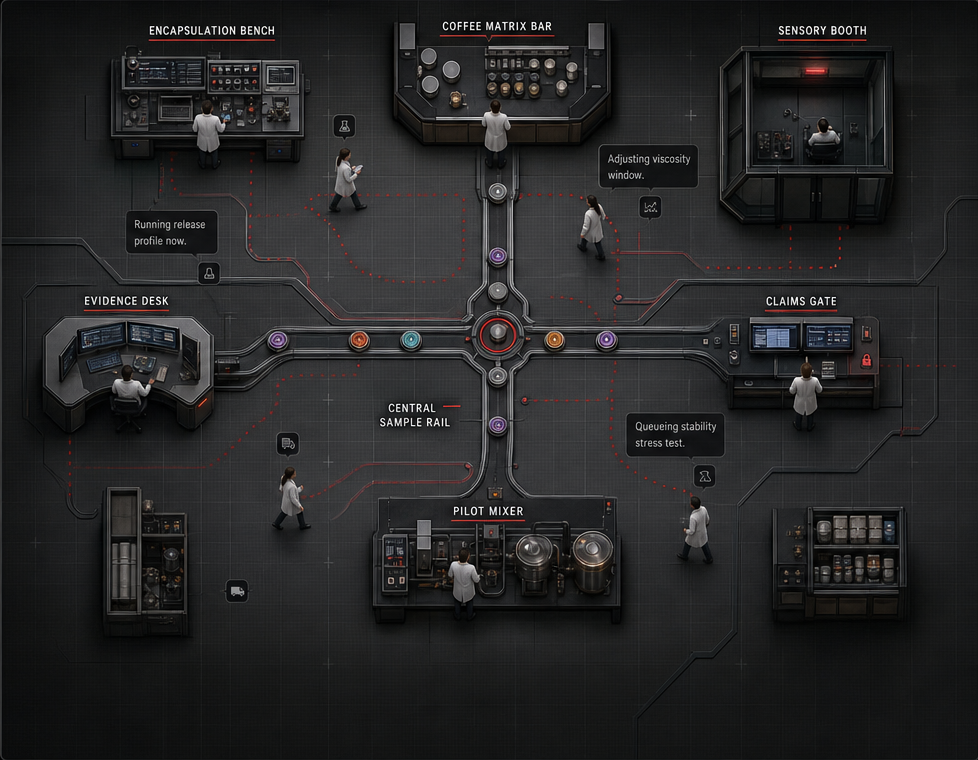
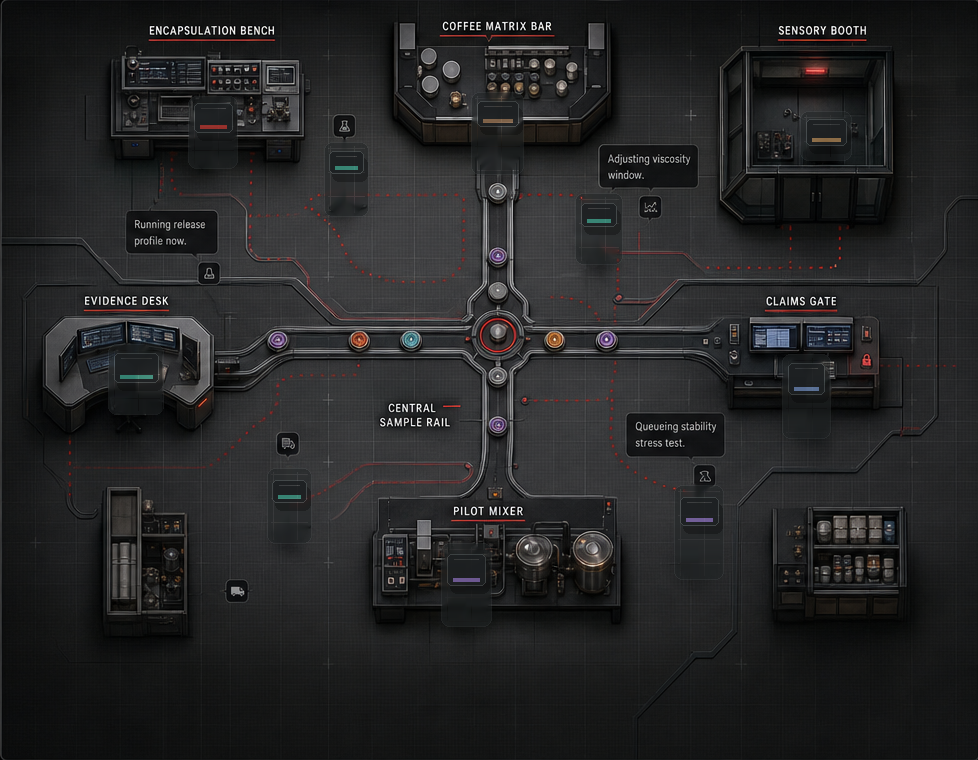
Improve research lab world motion

diff --git a/css/research-lab.css b/css/research-lab.css
@@ -1177,7 +1177,7 @@ body.research-world-page {
         margin-top: 0;
     }
     50% {
-        margin-top: -4px;
+        margin-top: calc(var(--walk-bob, 4px) * -1);
     }
 }
 
@@ -2089,27 +2089,54 @@ body.research-world-page {
 
 .research-world-page .game-stage .world-agent {
     animation:
-        agent-walk-bob 1.1s ease-in-out infinite,
-        scientist-step 620ms steps(2) infinite;
+        agent-walk-bob var(--walk-duration, 1.1s) ease-in-out infinite,
+        scientist-step var(--step-duration, 620ms) steps(2) infinite;
+    animation-delay:
+        var(--walk-delay, 0ms),
+        var(--step-delay, 0ms);
 }
 
 .research-world-page .game-stage .world-agent .lab-character-arm.left,
 .research-world-page .game-stage .world-agent .lab-character-leg.right {
-    animation: scientist-limb-a 620ms steps(2) infinite;
+    animation: scientist-limb-a var(--step-duration, 620ms) steps(2) infinite;
+    animation-delay: var(--step-delay, 0ms);
 }
 
 .research-world-page .game-stage .world-agent .lab-character-arm.right,
 .research-world-page .game-stage .world-agent .lab-character-leg.left {
-    animation: scientist-limb-b 620ms steps(2) infinite;
+    animation: scientist-limb-b var(--step-duration, 620ms) steps(2) infinite;
+    animation-delay: var(--step-delay, 0ms);
+}
+
+.research-world-page .game-stage .world-agent.is-speaking .world-agent-core {
+    filter:
+        drop-shadow(0 10px 10px rgba(0, 0, 0, 0.56))
+        drop-shadow(0 0 16px color-mix(in srgb, var(--agent-color) 62%, transparent));
+}
+
+.research-world-page .game-stage .world-agent.is-speaking::after {
+    content: '';
+    position: absolute;
+    left: 50%;
+    top: 36%;
+    width: 46px;
+    height: 18px;
+    transform: translate(-50%, -50%);
+    border: 1px solid color-mix(in srgb, var(--agent-color) 72%, transparent);
+    border-radius: 999px;
+    opacity: 0.7;
+    pointer-events: none;
+    animation: interaction-pulse 1450ms ease-in-out infinite;
+    animation-delay: var(--walk-delay, 0ms);
 }
 
 @keyframes scientist-step {
     0%,
     100% {
-        transform: translate(-50%, -50%) scaleX(1);
+        transform: translate(-50%, -50%) scaleX(var(--facing, 1));
     }
     50% {
-        transform: translate(-50%, -50%) scaleX(0.98);
+        transform: translate(-50%, -50%) scaleX(calc(var(--facing, 1) * 0.98));
     }
 }
 
@@ -2130,6 +2157,18 @@ body.research-world-page {
     }
     50% {
         transform: rotate(10deg);
+    }
+}
+
+@keyframes interaction-pulse {
+    0%,
+    100% {
+        opacity: 0.25;
+        transform: translate(-50%, -50%) scale(0.86);
+    }
+    45% {
+        opacity: 0.82;
+        transform: translate(-50%, -50%) scale(1.12);
     }
 }
 

diff --git a/api/_lib/research-lab-state.js b/api/_lib/research-lab-state.js
@@ -358,32 +358,57 @@ function stationCenter(stationId) {
     };
 }
 
+function agentSeed(agentId) {
+    return String(agentId)
+        .split('')
+        .reduce((sum, char) => sum + char.charCodeAt(0), 0);
+}
+
 function pairKey(firstId, secondId) {
     return [firstId, secondId].sort().join(':');
 }
 
 function createAgents(labClock = 0, currentExperiment = experimentTemplates[0]) {
     return agentBlueprints.map((agent, index) => {
+        const seed = agentSeed(agent.id);
         const active =
             agent.id === currentExperiment.leadAgentId ||
             agent.id === currentExperiment.supportAgentId;
+        const cadence = 2 + (seed % 4);
+        const patrolStep = Math.floor((labClock + seed) / cadence);
         const targetStationId = active
             ? currentExperiment.stationId
-            : stations[(labClock + index) % stations.length].id;
+            : stations[(patrolStep + index + seed) % stations.length].id;
         const home = stationCenter(agent.stationId);
         const target = stationCenter(targetStationId);
-        const phase = ((labClock + index * 2) % 10) / 10;
-        const pull = active ? 0.82 : 0.25 + phase * 0.35;
-        const drift = active ? 0 : Math.sin(labClock + index) * 1.8;
+        const phase = ((labClock + seed) % cadence) / cadence;
+        const pull = active ? 0.82 : 0.18 + phase * 0.68;
+        const drift = active ? 0 : Math.sin(labClock * 0.73 + seed) * (0.8 + (seed % 4) * 0.28);
         const needsSeed = labClock + index * 7;
+        const walkDuration = 760 + (seed % 7) * 115;
+        const stepDuration = 520 + (seed % 5) * 95;
 
         return {
             ...agent,
             x: clamp(home.x + (target.x - home.x) * pull + drift, 4, 96),
-            y: clamp(home.y + (target.y - home.y) * pull + Math.cos(labClock + index) * 1.6, 4, 96),
+            y: clamp(
+                home.y +
+                    (target.y - home.y) * pull +
+                    Math.cos(labClock * 0.61 + seed) * (0.7 + (seed % 5) * 0.24),
+                4,
+                96
+            ),
             targetStationId,
             intent: active ? currentExperiment.title : agent.intent,
             reflection: buildAgentReflection(agent, currentExperiment, active),
+            motion: {
+                cadence,
+                phase: Number(phase.toFixed(2)),
+                walkDuration,
+                stepDuration,
+                delay: -((seed * 37 + labClock * 113) % walkDuration),
+                stepDelay: -((seed * 53 + labClock * 71) % stepDuration),
+            },
             needs: {
                 focus: clamp(58 + (active ? 24 : 0) + (needsSeed % 13)),
                 evidence: clamp(44 + (active ? 28 : 0) + (needsSeed % 11)),

diff --git a/js/research-lab.js b/js/research-lab.js
@@ -77,6 +77,12 @@
         return Math.max(min, Math.min(max, Number(value) || 0));
     }
 
+    function stableSeed(value) {
+        return String(value)
+            .split('')
+            .reduce((sum, char) => sum + char.charCodeAt(0), 0);
+    }
+
     function getAgent(agentId) {
         return (state.data?.agents || []).find(agent => agent.id === agentId);
     }
@@ -247,11 +253,19 @@
                 const line = activeConversation?.lines?.find(item => item.speakerId === agent.id);
                 const isSpeaking = speakingIds.has(agent.id) && line;
                 const active = state.data.currentExperiment?.leadAgentId === agent.id;
+                const seed = stableSeed(agent.id);
+                const motion = agent.motion || {};
+                const walkDuration = clamp(motion.walkDuration || 760 + (seed % 7) * 115, 620, 1600);
+                const stepDuration = clamp(motion.stepDuration || 520 + (seed % 5) * 95, 420, 1200);
+                const walkDelay = clamp(motion.delay || -(seed * 37), -1600, 0);
+                const stepDelay = clamp(motion.stepDelay || -(seed * 53), -1200, 0);
+                const walkAmplitude = 2.4 + (seed % 5) * 0.42;
+                const facing = pathX < -1 ? -1 : 1;
 
                 return `
                     <div
                         class="world-agent${active ? ' is-active' : ''}${isSpeaking ? ' is-speaking' : ''}"
-                        style="--x: ${x}; --y: ${y}; --depth: ${Math.round(y)}; --agent-color: ${escapeHtml(agent.color)}; --path-length: ${pathLength}px; --path-angle: ${pathAngle}rad"
+                        style="--x: ${x}; --y: ${y}; --depth: ${Math.round(y)}; --agent-color: ${escapeHtml(agent.color)}; --path-length: ${pathLength}px; --path-angle: ${pathAngle}rad; --walk-duration: ${walkDuration}ms; --step-duration: ${stepDuration}ms; --walk-delay: ${walkDelay}ms; --step-delay: ${stepDelay}ms; --walk-bob: ${walkAmplitude}px; --facing: ${facing}"
                     >
                         <span class="world-agent-core">${labCharacterMarkup(agent, 'world')}</span>
                         <span class="agent-label">${escapeHtml(agent.name.replace(/^Dr\\.\\s+/, '').split(' ')[0])}</span>

diff --git a/teams/developers/context.md b/teams/developers/context.md
@@ -19,6 +19,8 @@ Website live at fuse-creatine.vercel.app. Public FUSE Agent chat now supports co
 - ✅ Research Lab rebuilt from scratch as a living AI research world with spatial stations, moving scientist agents, social conversations, memory stream, disputes, evidence gates, and experiment queue
 - ✅ Research Lab visual world simplified into an AI Town-style game view: generated lab map first, visible moving scientist agents, lightweight HUD controls, and live conversation overlay
 - ✅ Research Lab agent markers replaced with moving lab-coat scientist sprites so agents look like characters in the world rather than circles with initials
+- ✅ Research Lab background map cleaned so baked-in static scientists are removed; only live agent sprites now represent people in the lab world
+- ✅ Research Lab movement now uses per-agent patrol cadence, animation duration, phase delay, and facing direction so scientists no longer bounce in one synchronized rhythm
 - ✅ Previous generated Research Lab visual assets and dashboard-style lab implementation removed
 - ✅ Legacy standalone Agent Command Center page retired; `/agents` now redirects to the dashboard while `/api/agents` remains for backend/dashboard tooling
 - ✅ Public FUSE Agent persona updated to be more playful, creator-led, and experimentation-focused while using dry, witty pushback for build/configuration/internal-system questions

diff --git a/teams/developers/decisions.md b/teams/developers/decisions.md
@@ -12,7 +12,7 @@ Each decision follows: **Date | Decision | Rationale | Impact**
 
 **Rationale**: The grid-style world still felt like the old implementation. Sergio wants the new Research Lab World to match the generated control-room/lab image that made the concept feel alive.
 
-**Impact**: `/research-lab` now uses `assets/lab/research-lab-world-map.png` as the central stage, with moving lab-coat scientist sprites and live speech bubbles layered over the image. Station cards, mission sidebars, hypothesis walls, dense control-room panels, and initials-in-circle markers were removed from the primary view so the lab reads as a game world first. Station coordinates in `api/_lib/research-lab-state.js` were realigned to the generated map zones.
+**Impact**: `/research-lab` now uses `assets/lab/research-lab-world-map.png` as the central stage, with moving lab-coat scientist sprites and live speech bubbles layered over the image. The map art has been cleaned so baked-in static scientists are removed and only live sprites represent people in the world. Station cards, mission sidebars, hypothesis walls, dense control-room panels, and initials-in-circle markers were removed from the primary view so the lab reads as a game world first. Station coordinates in `api/_lib/research-lab-state.js` were realigned to the generated map zones, and agent motion now uses per-agent patrol cadence, animation speed, phase delay, and facing direction inspired by AI Town's independent character simulation model.
 
 ---
 